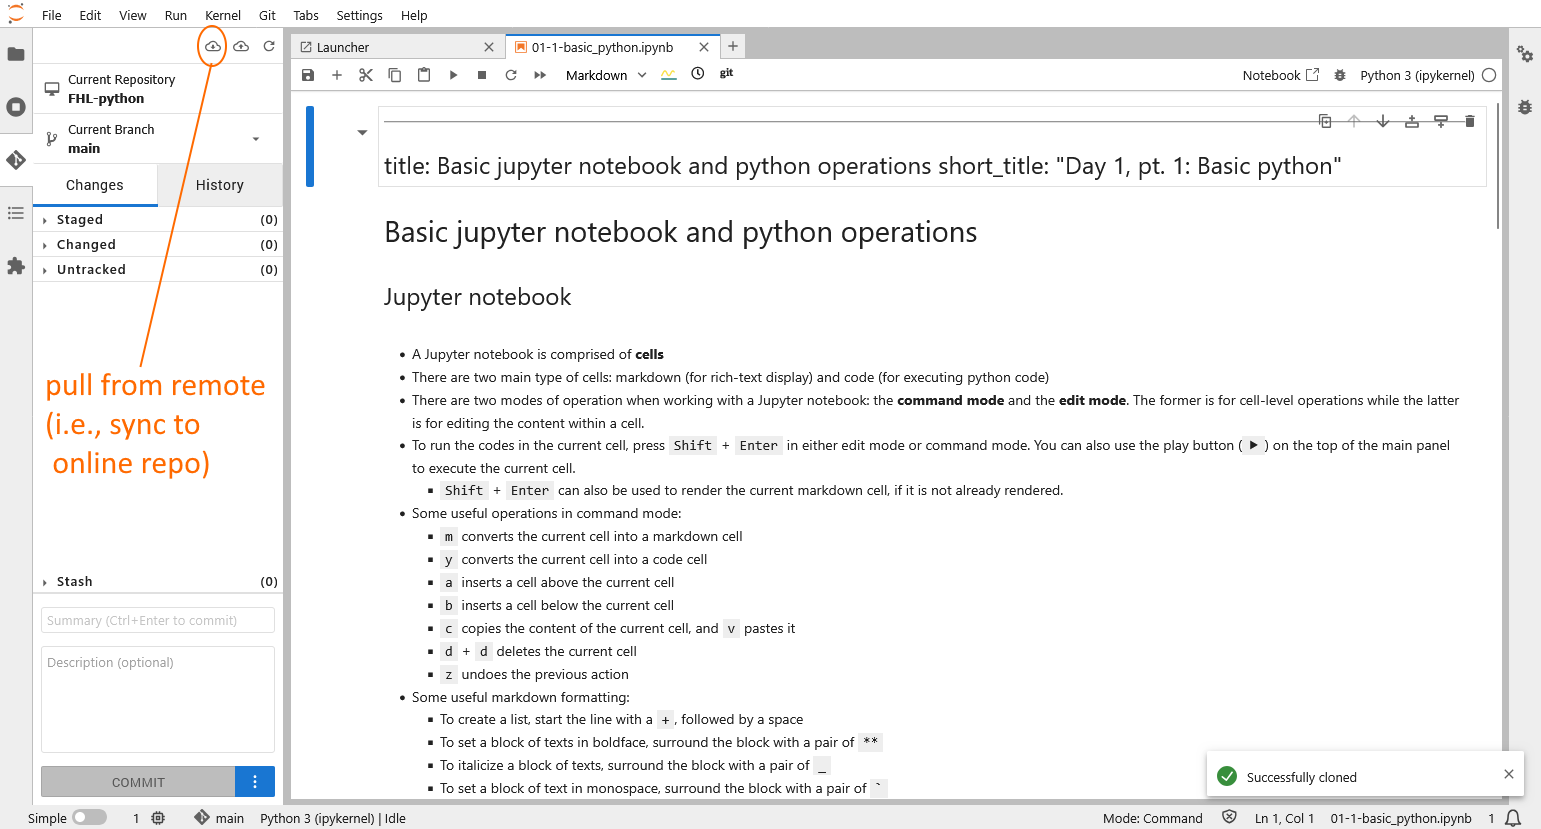
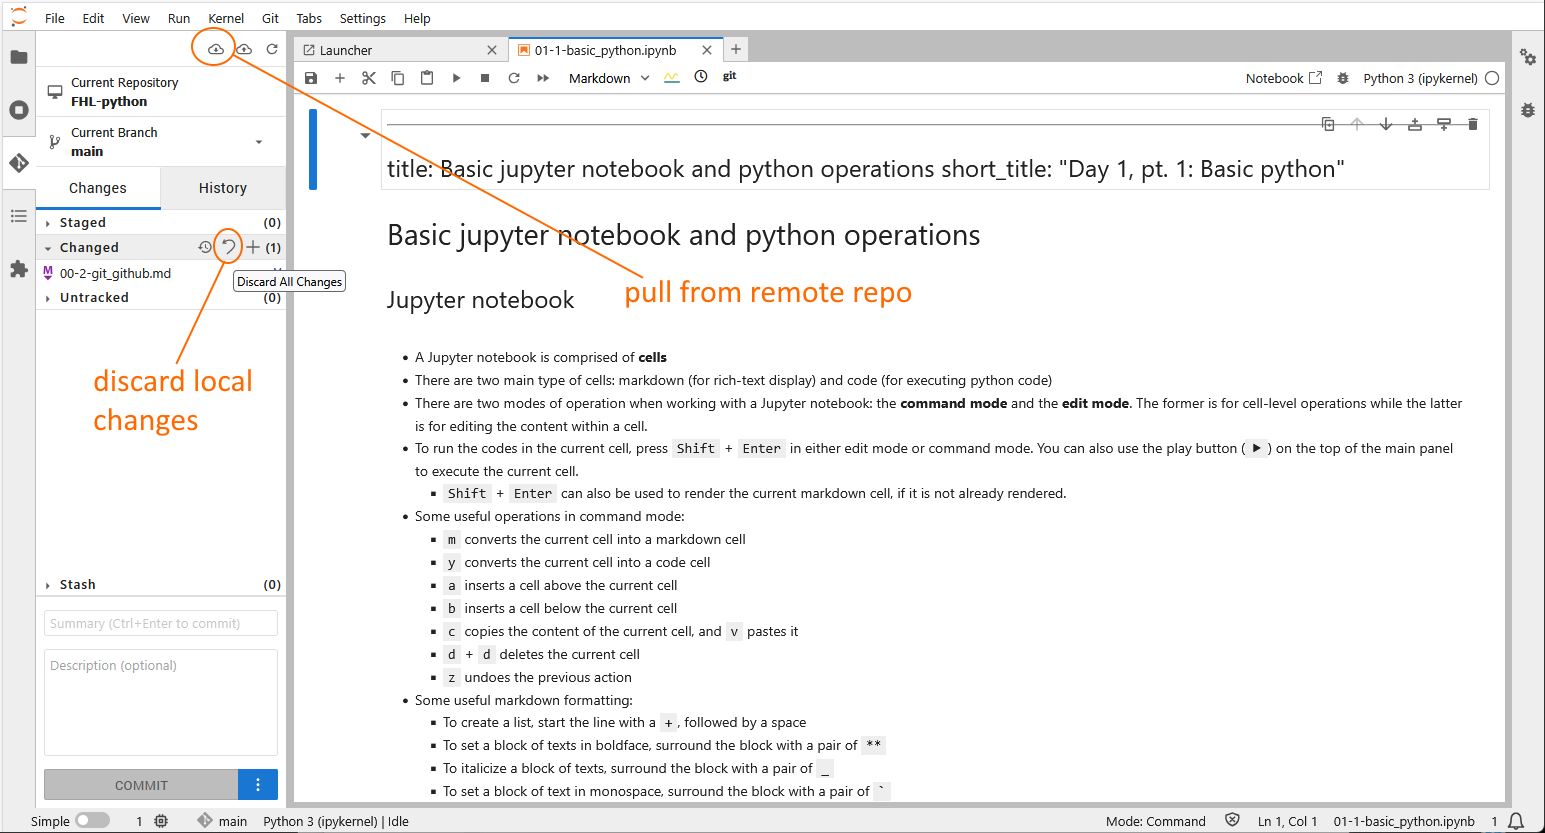
Modified git and github section

diff --git a/00-2-git_github.md b/00-2-git_github.md
@@ -31,9 +31,10 @@ Git will then do the work and create a subfolder containing the repo.
 
 **Figure 1**: GitHub webpage from which the git clone url can be found.
 
-When you do work on the local repo, the contents between your local repo and the repo on GitHub will become out of sync. The same can happen if the GitHub repo is updated. To sync your local repo to the GitHub version (**note**: this will unset the work you have done locally), change directory to **inside** the local repo, then execute:
+When you do work on the local repo, the contents between your local repo and the repo on GitHub will become out of sync. The same can happen if the GitHub repo is updated. To sync your local repo **to** the GitHub version (**note**: this will wipe the work you have done locally), change directory to **inside** the local repo, then execute:
 
 ```
+    git restore .
     git pull origin
 ```
 
@@ -49,7 +50,7 @@ If you create the `osym` environment following the instructions from the previou
 
 **Figure 2**: Jupyter Lab page with the git pane activated and the cloning button clicked.
 
-In addition, when you open the "git" pane from **within** a git repo, you will find thatit provides information on which file(s) have been modified. It also allows you to refresh the remote repo and check if anything has changed. There is also a "cloud download" button that lets you pull from the remote repository (again, doing so will wrap your local modifications). See figure below.
+In addition, when you open the "git" pane from **within** a git repo, you will find thatit provides information on which file(s) have been modified, and to roll back the changes if needed. It also allows you to refresh the remote repo and check if anything has changed, as well as a "cloud download" button that lets you pull from the remote repository. See figure below.
 
 ![Option to git pull from jupyterlab-git](img/jupyterlab-git-pull.png)
 
@@ -58,5 +59,3 @@ In addition, when you open the "git" pane from **within** a git repo, you will f
 ## Further Git functionalities
 
 In addition to cloning existing repo, you can also create your own repo and post them on Github. Some good resources for learning these functions of Git and GitHub can be found on [RealPython](https://realpython.com/python-git-github-intro/) and [HubSpot](https://product.hubspot.com/blog/git-and-github-tutorial-for-beginners).
-
-
